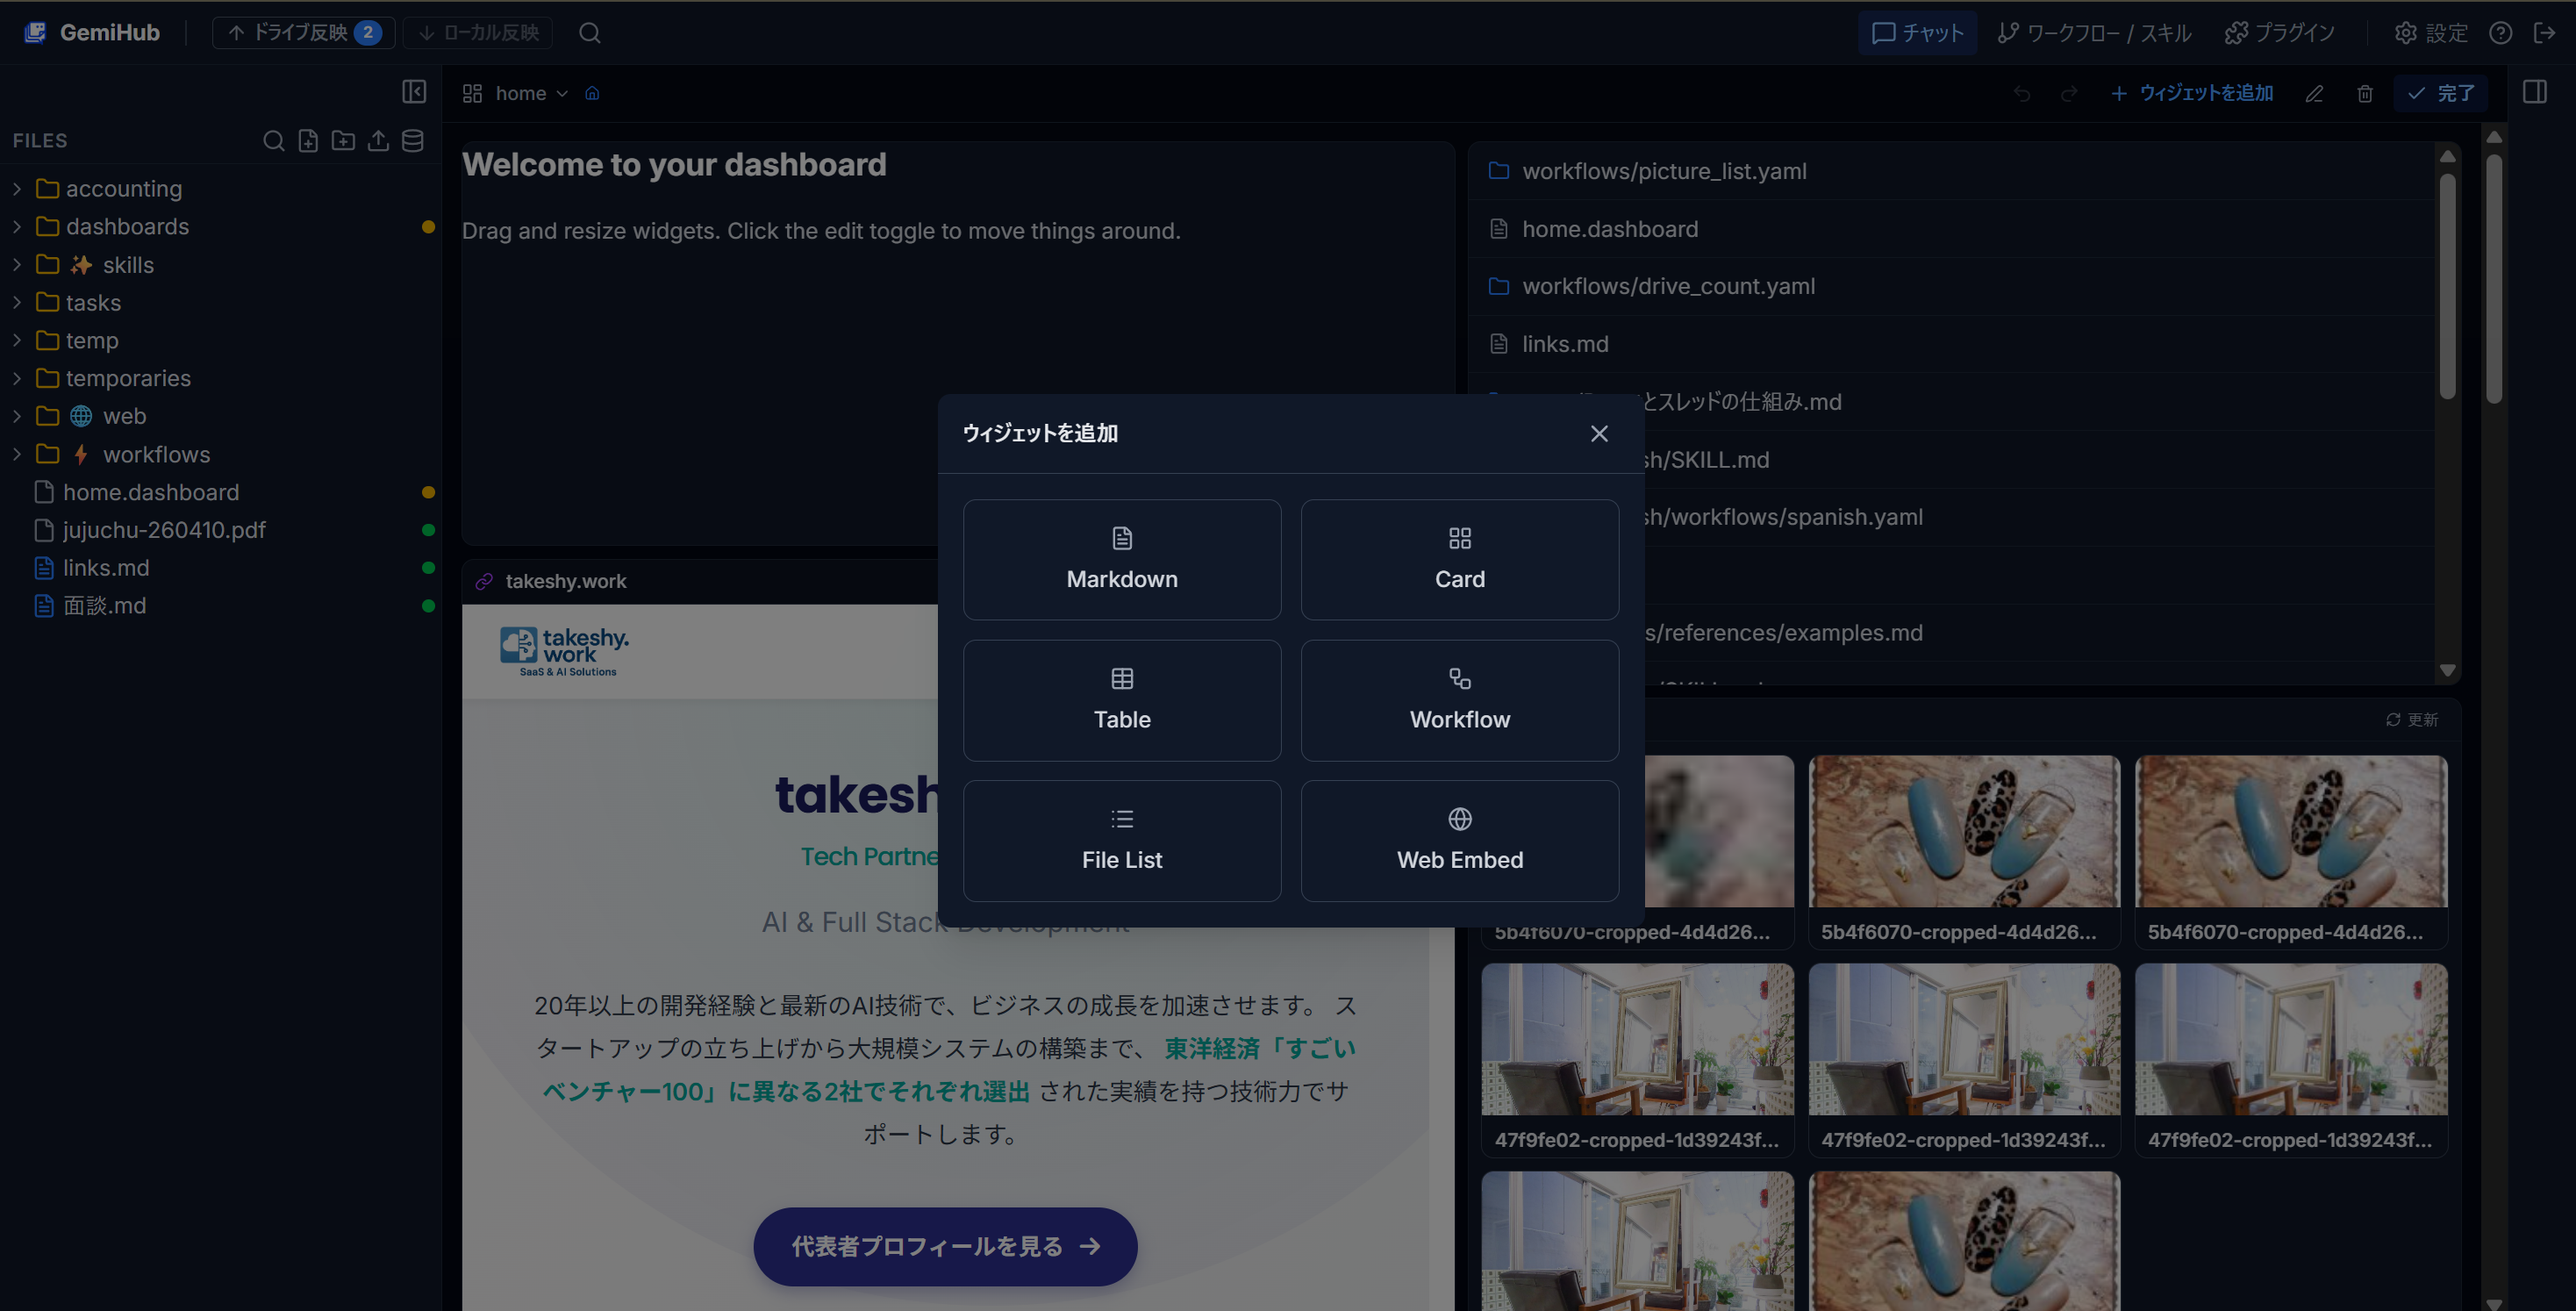
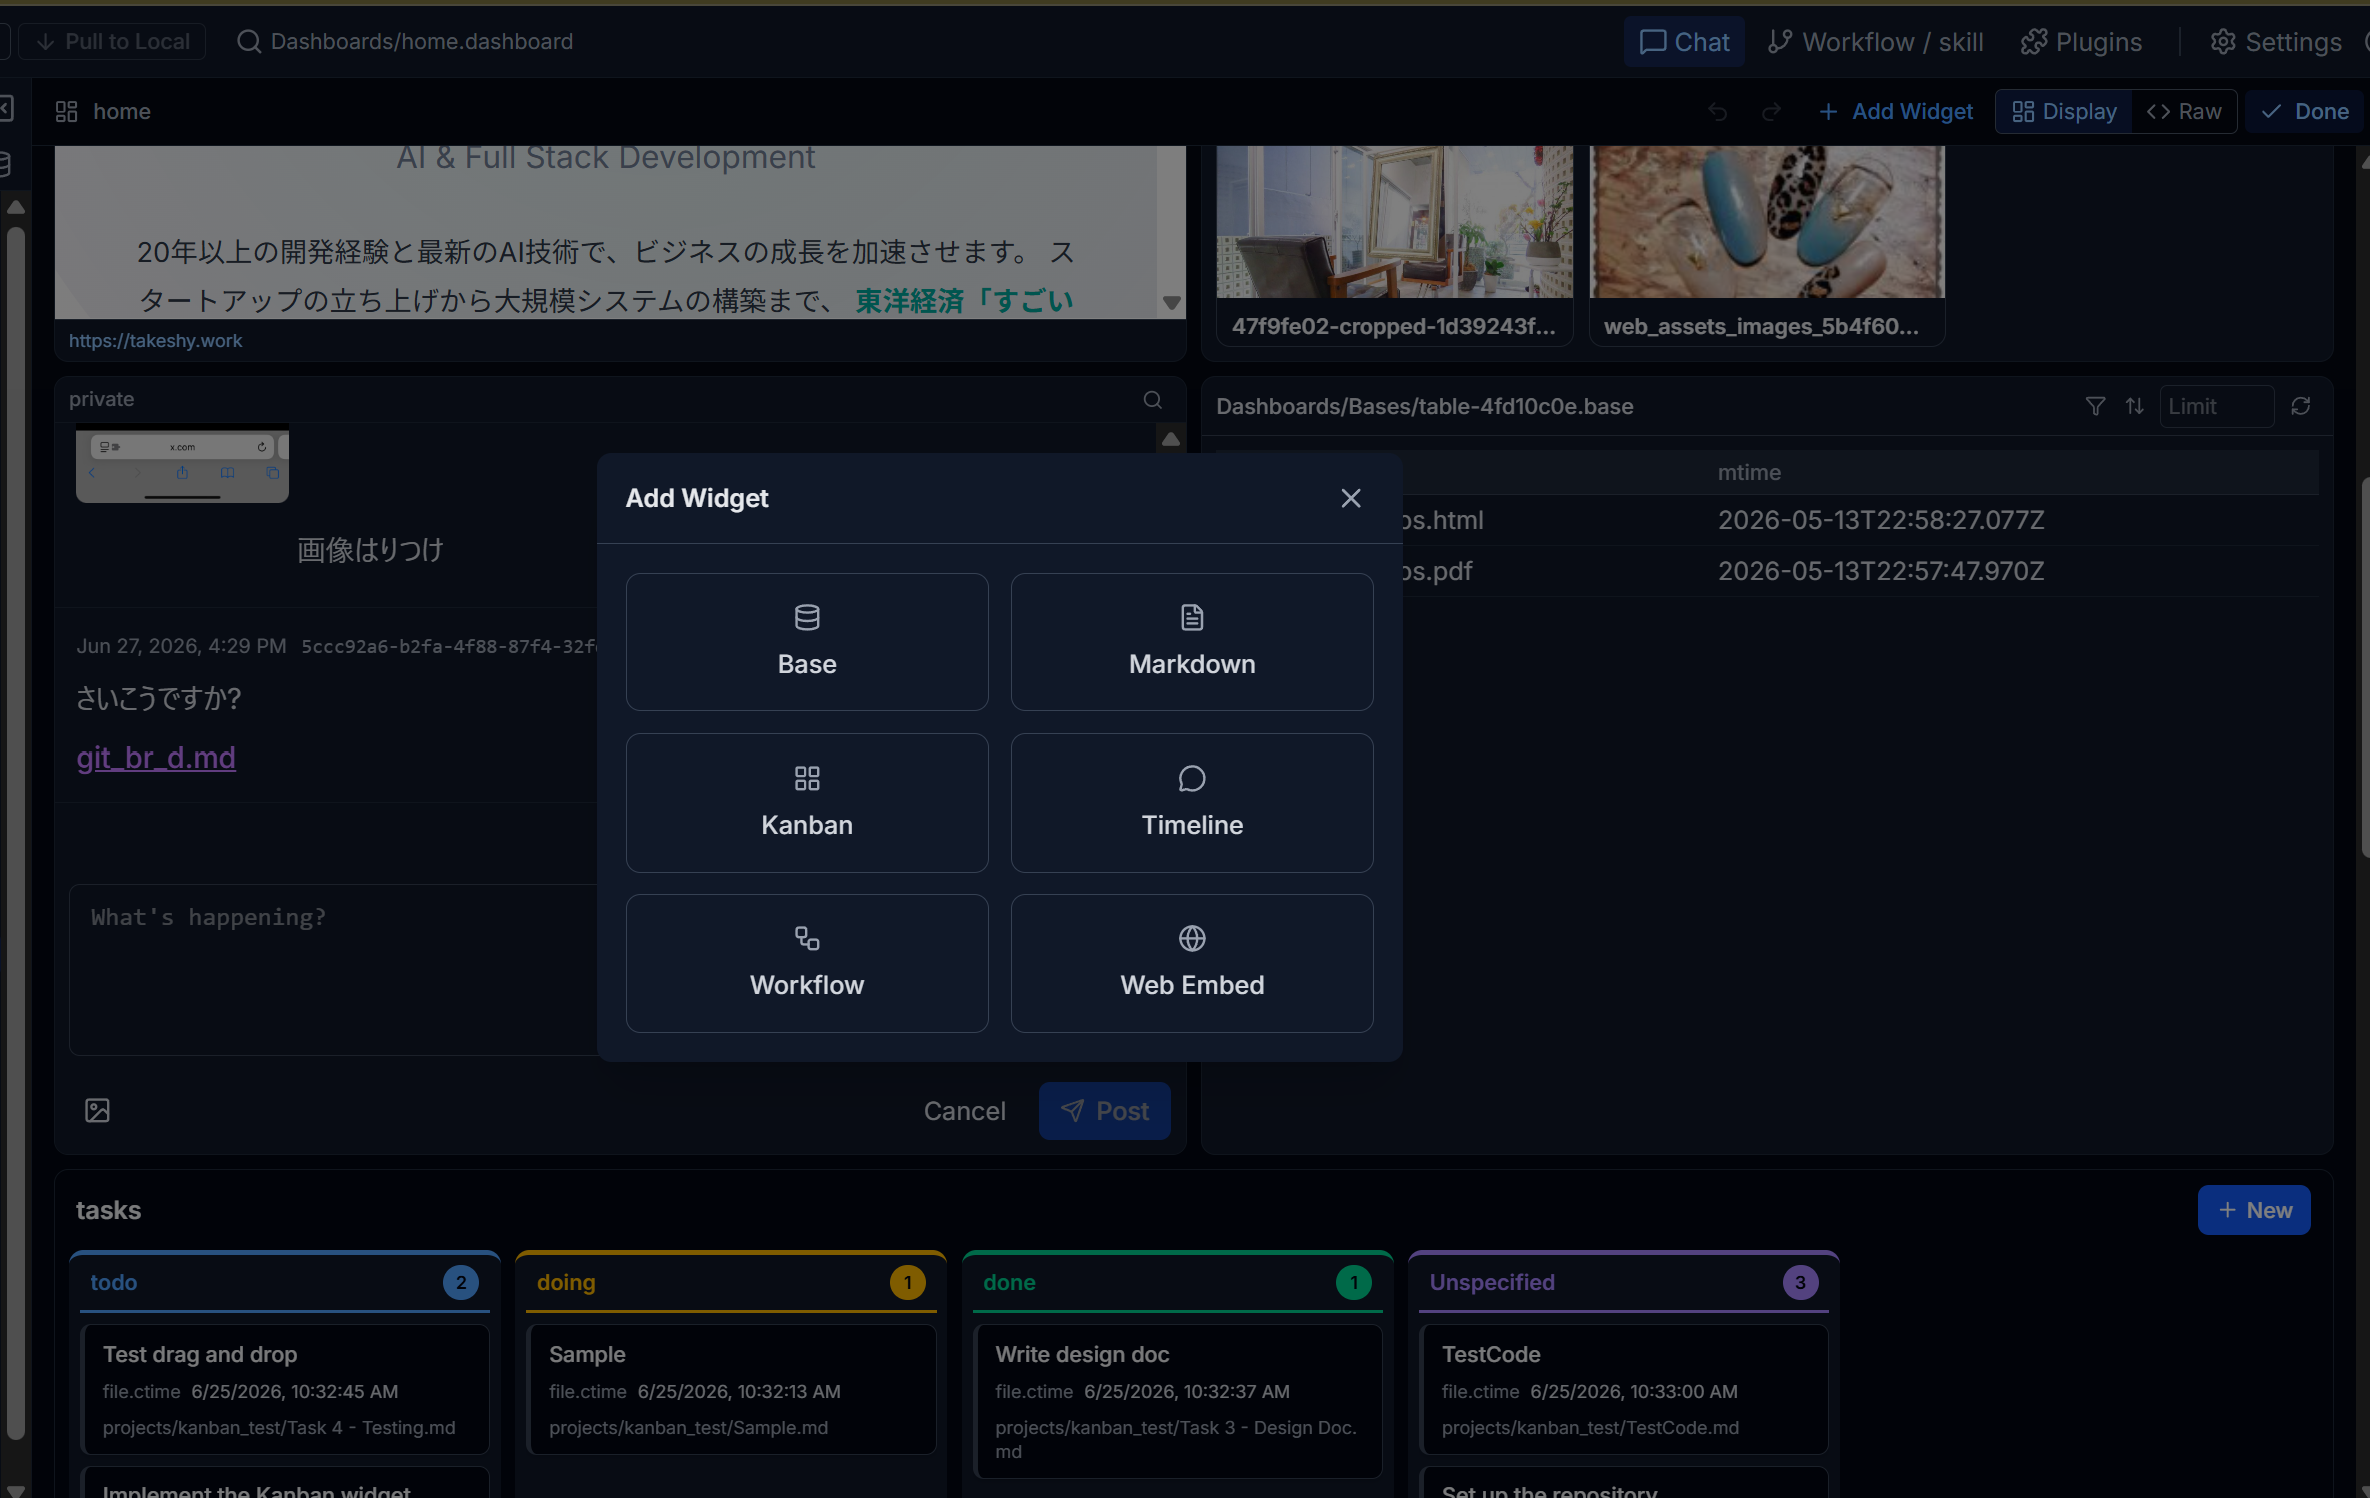
Document Base widget migration and Timeline widget
- README/README_ja: reframe dashboard around Base (.base views,
  replacing card/table/file-list) and the new Timeline microblog widget;
  add timeline_edit and base_setting screenshots
- docs/dashboard(_ja): update widget-type table/schema, add Base and
  Timeline sections, mark Card/Table folder widgets as legacy
  (auto-converted to Base), note base is now a core widget, refresh
  key-files list

diff --git a/docs/dashboard.md b/docs/dashboard.md
@@ -21,7 +21,7 @@ grid:
   gap: 8
 widgets:
   - id: <uuid>
-    type: markdown | file-list | web | card | table | workflow
+    type: markdown | base | kanban | timeline | workflow | web
     layout:
       lg: { x: 0, y: 0, w: 6, h: 3 }
       sm: { x: 0, y: 0, w: 12, h: 3 }   # auto-derived if omitted
@@ -47,30 +47,61 @@ Widgets are registered in `widgets/registry.ts` via `registerWidget(def)`. Each 
 | Type | Purpose | Source |
 |------|---------|--------|
 | `markdown` | Edit an existing Drive markdown file inline (preview/wysiwyg/code) | Drive file |
-| `file-list` | A compact list of files in a folder (header path + filter/sort) | folder |
-| `web` | Embed an external URL (with embeddability check + fallback card) | URL |
-| `card` | Card grid over a folder of markdown files | folder |
-| `table` | Editable table over a folder of markdown files | folder |
+| `base` | Render a view (table/cards/list) of an Obsidian-style `.base` query file | `.base` + folder |
 | `kanban` | Kanban board over a folder of markdown files | folder |
+| `timeline` | Personal microblog of dated posts (tags, image attachments, pin/edit) | timeline folder |
 | `workflow` | Run a workflow and render its output | workflow |
+| `web` | Embed an external URL (with embeddability check + fallback card) | URL |
 
-`web` is unchanged from the initial dashboard release. `markdown` and `file-list` (below) and the data-oriented widgets — `card`, `table`, `kanban`, `workflow` — are described below.
+The current core widget set is registered in `widgets/registry.ts`: `markdown`, `base`, `kanban`, `timeline`, `workflow`, `web`. `web` is unchanged from the initial dashboard release; the others are described below.
+
+> **Folder data widgets are now Bases.** The earlier `card`, `table`, and `file-list` widgets (folder-source card grid / editable table / file list) have been **folded into the `base` widget** — they are now authored as `.base` files (a cards/table/list view over a folder). These three types are no longer registered; when a `.dashboard` still references one, it is **auto-converted** to an equivalent `base` widget on load (`legacyFolderWidgetConversion.ts`), writing a generated `.base` under `Dashboards/Bases/`. The shared folder-source pipeline (`data-widget/`: `folder-source.ts`, `filter.ts`, `ViewControls.tsx`, `config-parts/`) lives on and is reused by the `base` widget for filtering/sorting and the view-time header controls.
 
 ### Markdown widget
 
 References an **existing** Drive markdown file by path (no inline content) and renders the normal markdown editor inline via `MarkdownFileEditor` — the same **preview / wysiwyg / code** toggle, frontmatter, and wiki links as the main editor, with local-first saving (`useFileWithCache`). The editor toolbar is trimmed to *path + mode toggle* (`hideToolbarActions`); the file path on the left is a `MarkdownFilePicker` (@-mention-style search over `editorCtx.fileList`) that switches the referenced file **even outside edit mode** — the choice is persisted as `ctx.onConfigChange({ path })`. This matches the Obsidian Gemini Helper dashboard schema and keeps `.dashboard` files hand-editable/syncable. The view mode defaults to **preview** on the first view of a session, then a session-scoped variable remembers the user's last explicit toggle across file switches (so opening another file keeps wysiwyg/code). Config: `{ path }`.
 
-### File List widget
+### Base widget
 
-A folder file list with a header showing the folder path plus two header icons that work in view mode: a **filter** (filename substring) and a **sort** (the six mtime/ctime/name options). Both are ephemeral view-time overlays — the filter is applied client-side over the loaded list and the sort overrides the configured `sort` (re-fetched via `listFilesLocal`); neither is written back to the `.dashboard`. Popovers reuse the portal `Popover` from `data-widget/ViewControls.tsx`.
+The `base` widget renders a **view of an Obsidian-style `.base` file** — a saved query (filters, sort, limit, computed properties) over a folder of Markdown notes — as a **table**, **card grid**, or **list**. It replaces the old `card` / `table` / `file-list` folder widgets (which are auto-converted to Bases, see the note above). Implemented by `widgets/BaseWidget.tsx`; the `.base` parsing/query engine lives in `app/bases/` (`compileBase`, `queryView`, `createGemiHubHost`) and the view renderer in `app/components/bases/BaseViewRenderer.tsx`.
 
-Clicking a file does **not** open it immediately — it opens a `FilePreviewModal` (portal overlay) showing the content (markdown rendered via `GfmMarkdownPreview`, other files as plain text). The modal header has a navigate icon (open the file in the editor) and a close icon; only the navigate icon performs the actual `plugin-select-file` navigation.
+![Base widget settings](../public/images/base_setting.png)
 
-> **History.** Earlier builds had a single generalized `data` widget (`source` folder|workflow × `view` table|cards) and a `file-table` widget. These were replaced by the three explicit widgets here. Because the dashboard feature had not shipped, there is **no migration shim** — `data` / `file-table` types are gone and old test `.dashboard` files should be recreated with the new types.
+```yaml
+config:
+  base: Dashboards/Bases/projects.base   # path to the .base file
+  view: Cards                            # view name; empty = first view in the file
+```
+
+- A `.base` file is YAML with one or more named `views` (`type: table | cards | list`), each with optional `filters` (expression or `and`/`or` tree, e.g. `file.inFolder("projects")`, `status == "done"`, `tags.contains("ai")`), `order` (displayed properties / columns), `sort`, `limit`, and (for cards) an `image` property. Properties are `file.*` attributes or frontmatter keys.
+- The widget re-reads the referenced `.base` and the source notes from the local cache, recompiles, and renders the selected view. The same **view-time filter / sort / search** header controls as the folder widgets apply (ephemeral, not written back).
+- Clicking a row/card opens the underlying note. The header lets you switch the active view; the choice persists via `ctx.onConfigChange`.
+- The config editor (`config-editors/BaseConfigEditor.tsx`) picks the `.base` file and view, and includes an **AI dialog** (`AIBaseDialog.tsx`) to generate or modify a `.base` from natural language. `.base` files have their own dedicated editor outside the dashboard (see `docs/editor.md`).
+
+> Because `Dashboards/` is in `drive-local.ts`'s `EXCLUDED_PREFIXES`, the recommended home for dashboard-owned `.base` files is `Dashboards/Bases/` (where legacy conversion writes them), but a `base` widget can reference a `.base` anywhere in the vault.
+
+### Timeline widget
+
+The `timeline` widget is a **personal microblog**: a reverse-chronological feed of short posts with `#tags` and image attachments. Implemented by `widgets/TimelineWidget.tsx`.
+
+![Timeline widget](../public/images/timeline_edit.png)
+
+```yaml
+config:
+  name: Journal            # timeline name → folder Dashboards/Timeline/<name>/
+  latestCount: 20          # how many recent posts to load initially (older load on demand)
+  composerMode: raw        # raw | wysiwyg — the post composer editing mode
+```
+
+- **Storage** — each day is a Markdown file `Dashboards/Timeline/<name>/<YYYY-MM-DD>.md`; posts are `---`-separated blocks marked with a `<!-- timeline-post: … -->`-style header carrying the ISO timestamp, `id`, and optional `pinned: true`. Image attachments are saved as binary files under `…/attachments/<date>/<postId>_NN.<ext>` and embedded in the post body as Obsidian embeds (`![[…]]`). All writes are local-first (`writeFileLocal` / `saveBinaryFileLocal`).
+- **Posting** — the composer accepts text plus image uploads (converted to base64 and saved via `saveBinaryFileLocal`). Posts can be **pinned**, **edited** in place, and deleted.
+- **Tags** — inline `#tags` in a post body are extracted into clickable chips shown below the post (the chips are the canonical display; the raw `#tag` tokens are stripped from the rendered body so they aren't shown twice). Clicking a chip filters the feed by that tag.
+- **Filtering & paging** — header controls filter by free-text word, tags, and date range, and toggle pinned-only; older posts load on demand beyond `latestCount`.
+- Posts render through `GfmMarkdownPreview` (wiki embeds for images via `WikiEmbed`); each post is a memoized `TimelinePostView` so editing one post doesn't re-render the whole feed.
 
 ### Shared building blocks
 
-`card`, `table`, and `workflow` reuse a common pipeline:
+The `base`, `workflow`, and the (now legacy, Base-backed) folder widgets reuse a common pipeline:
 
 - **Row model** — `DataRow` (`data-widget/types.ts`): `{ id, fileName?, fileId?, mtime?, ctime?, cells }`. `cells` holds property values keyed by name (frontmatter keys plus `file.*` attributes).
 - **Folder source** — `loadFolderRows(folder)` / `scanFolderFields(folder)` (`folder-source.ts`) read markdown files in a folder and expose their frontmatter + file attributes as rows/fields.
@@ -86,7 +117,9 @@ Clicking a file does **not** open it immediately — it opens a `FilePreviewModa
 - Each icon shows a small blue dot when active; the sort popover has a "Reset" entry to clear the override.
 - Popovers render through a portal (widget cells are `overflow-hidden`, which would otherwise clip them). The filter popover is wider (`w-80`) and the property selector can shrink (`min-w-0`) so the condition row never overflows the panel.
 
-## Card & Table (folder widgets)
+## Card & Table (legacy folder widgets)
+
+> **Legacy / superseded by `base`.** `card`, `table`, and `file-list` are no longer registered widget types — they are auto-converted to `base` widgets on load (see "Folder data widgets are now Bases" above). The implementation files (`FolderWidget`, `CardsView`, `TableView`, `FileListWidget`, and their config editors) remain in the tree as the basis of the legacy conversion and as the shared rendering pipeline reused by the `base` widget. The config shapes below document those legacy widgets and the converter's input.
 
 Both read markdown files from a folder and run them through filter → sort → limit. They differ only in how rows are rendered. Implemented by a shared `FolderWidget` (the registry picks the view per type).
 
@@ -198,7 +231,7 @@ Plugins add custom widget types with `registerWidget(def)` (`widgets/registry.ts
 
 **Late registration.** Plugins load asynchronously, often after a dashboard has already rendered. `registerWidget` dispatches a `dashboard-widgets-changed` event and `DashboardCanvas` re-renders on it, so a widget whose plugin loads late swaps from `UnknownWidget` to the real renderer without a reload.
 
-**`base` widget (plugin-provided, e.g. Obsidian Bases).** Reading/creating/rendering `.base` files is intended to live in a plugin, not core. The convention is a widget `{ type: "base", config: { base: "Dashboards/xx.base", view: "<view name>" } }`: the plugin registers `type: "base"` and renders the named view of the referenced `.base`. Core needs no special import machinery — the `.dashboard` just stores the widget, `WidgetContext` (size/editMode/widgetId/dashboardFileId/`onConfigChange`) is passed through, and when the plugin is absent the widget shows `UnknownWidget` with its config intact. (Note: `drive-local.ts`'s `EXCLUDED_PREFIXES` includes `Dashboards/`, so a plugin discovering `.base` files should use `readFile`/`searchFiles` rather than `listFiles`.)
+> **Note on `base`.** Earlier this widget was envisioned as plugin-provided. It is now a **core widget** (`type: "base"`, see the Base widget section) backed by the in-repo Obsidian Bases engine in `app/bases/`. The same `WidgetContext` plumbing still applies, and a plugin could still register an alternative renderer for a custom type.
 
 **View-mode config.** `WidgetContext.onConfigChange(config)` lets a widget persist its own config from view mode (wired through `GridCell` → `DashboardCanvas` → the dashboard save). Used by the markdown widget's header file picker.
 
@@ -208,6 +241,8 @@ Plugins add custom widget types with `registerWidget(def)` (`widgets/registry.ts
 - `app/dashboard/DashboardCanvas.tsx`, `GridCell.tsx`, `useGridLayout.ts`, `useBreakpoint.ts` — grid & interaction.
 - `app/dashboard/dashboardFile.ts`, `types.ts` — file I/O & schema.
 - `app/dashboard/widgets/registry.ts`, `WidgetPalette.tsx`, `WidgetRenderer.tsx`, `WidgetSettingsPanel.tsx` — registration & UI.
-- `app/dashboard/widgets/` — `MarkdownWidget`, `FileListWidget`, `WebWidget`, `UnknownWidget` (+ their config editors).
-- `app/dashboard/data-widget/` — `FolderWidget`, `WorkflowWidget`, `CardsView`, `TableView`, `folder-source.ts`, `filter.ts`, `workflow-runner.ts`, the `Card`/`Table`/`Workflow` config editors, and shared `config-parts/`.
-- `app/dashboard/frontmatter-writeback.ts`, `frontmatter-cache.ts` — table cell writeback.
+- `app/dashboard/widgets/` — `MarkdownWidget`, `BaseWidget`, `TimelineWidget`, `WebWidget`, `UnknownWidget`, `FileListWidget` (legacy), `FilePreviewModal`, `base-file-options.ts` (+ their config editors, incl. `AIBaseDialog`).
+- `app/dashboard/legacyFolderWidgetConversion.ts` — converts legacy `card`/`table`/`file-list` widgets to `base` (writes a generated `.base`).
+- `app/bases/`, `app/components/bases/` — `.base` compile/query engine and view renderer used by the `base` widget.
+- `app/dashboard/data-widget/` — `FolderWidget`, `WorkflowWidget`, `KanbanWidget`, `CardsView`, `TableView`, `ViewControls.tsx`, `folder-source.ts`, `filter.ts`, `workflow-runner.ts`, the `Card`/`Table`/`Kanban`/`Workflow` config editors, and shared `config-parts/`.
+- `app/dashboard/frontmatter-writeback.ts`, `frontmatter-cache.ts` — table/base cell writeback.

diff --git a/docs/dashboard_ja.md b/docs/dashboard_ja.md
@@ -21,7 +21,7 @@ grid:
   gap: 8
 widgets:
   - id: <uuid>
-    type: markdown | file-list | web | card | table | workflow
+    type: markdown | base | kanban | timeline | workflow | web
     layout:
       lg: { x: 0, y: 0, w: 6, h: 3 }
       sm: { x: 0, y: 0, w: 12, h: 3 }   # 省略時は自動導出
@@ -46,30 +46,61 @@ widgets:
 | 型 | 役割 | ソース |
 |------|---------|--------|
 | `markdown` | 既存 Drive Markdown ファイルをインライン編集（preview/wysiwyg/code） | Drive ファイル |
-| `file-list` | フォルダ内ファイルの一覧（ヘッダにパス + 絞り込み/並び替え） | フォルダ |
-| `web` | 外部 URL を埋め込み（埋め込み可否チェック + フォールバックカード） | URL |
-| `card` | Markdown ファイルのフォルダに対するカードグリッド | フォルダ |
-| `table` | Markdown ファイルのフォルダに対する編集可能テーブル | フォルダ |
+| `base` | Obsidian 風 `.base` クエリファイルのビュー（テーブル/カード/リスト）を描画 | `.base` + フォルダ |
 | `kanban` | Markdown ファイルのフォルダに対するカンバンボード | フォルダ |
+| `timeline` | 日付ごとの投稿による個人マイクロブログ（タグ・画像添付・ピン留め/編集） | timeline フォルダ |
 | `workflow` | ワークフローを実行し出力を描画 | ワークフロー |
+| `web` | 外部 URL を埋め込み（埋め込み可否チェック + フォールバックカード） | URL |
 
-`web` は初期リリースから変更なし。`markdown` / `file-list`（直下）とデータ指向の `card` / `table` / `kanban` / `workflow` を以下で説明する。
+現在のコアウィジェットは `widgets/registry.ts` に登録されている: `markdown`, `base`, `kanban`, `timeline`, `workflow`, `web`。`web` は初期リリースから変更なし。それ以外を以下で説明する。
+
+> **フォルダ系データウィジェットは Base に統合。** 以前の `card` / `table` / `file-list` ウィジェット（フォルダソースのカードグリッド／編集可能テーブル／ファイル一覧）は **`base` ウィジェットに統合**された — 現在は `.base` ファイル（フォルダに対する cards/table/list ビュー）として作成する。これら 3 型はもう登録されておらず、`.dashboard` がまだ参照している場合はロード時に等価な `base` ウィジェットへ**自動変換**される（`legacyFolderWidgetConversion.ts`）。生成された `.base` は `Dashboards/Bases/` 配下に書き出される。共有のフォルダソースパイプライン（`data-widget/`: `folder-source.ts`, `filter.ts`, `ViewControls.tsx`, `config-parts/`）は残り、`base` ウィジェットのフィルタ/ソートやビュー時ヘッダ操作に再利用される。
 
 ### Markdown ウィジェット
 
 **既存**の Drive Markdown ファイルをパスで参照し（インライン content は廃止）、`MarkdownFileEditor` で通常エディタと同じ **preview / wysiwyg / code** 切替・frontmatter・wiki リンク・local-first 保存（`useFileWithCache`）をインライン描画する。ツールバーは *パス + モード切替* のみに絞る（`hideToolbarActions`）。左のファイルパスは `MarkdownFilePicker`（`editorCtx.fileList` に対する @ 風検索）で、**編集モード外でも**参照ファイルを切替でき、選択は `ctx.onConfigChange({ path })` で永続化される。Obsidian Gemini Helper の dashboard schema と同じなので、`.dashboard` ファイルを手書き・同期しやすい。表示モードはセッション初回のみ **preview** が既定で、その後はセッションスコープの変数がユーザーの最後の明示的な切替を記憶し、別ファイルを開いても保持される（wysiwyg/code のまま）。config: `{ path }`。
 
-### File List ウィジェット
+### Base ウィジェット
 
-フォルダのファイル一覧。ヘッダにフォルダパスと、ビューモードで効く 2 つのアイコン — **絞り込み**（ファイル名の部分一致）と**並び替え**（mtime/ctime/name の 6 種）— を表示する。いずれもエフェメラルなビュー時オーバーレイで、絞り込みは読込済みリストにクライアント側で適用、並び替えは設定の `sort` を上書き（`listFilesLocal` で再取得）する。`.dashboard` には書き戻さない。ポップオーバーは `data-widget/ViewControls.tsx` のポータル `Popover` を再利用。
+`base` ウィジェットは **Obsidian 風 `.base` ファイルのビュー** — フォルダ内 Markdown ノートに対する保存済みクエリ（フィルタ・ソート・limit・算出プロパティ）— を **テーブル** / **カードグリッド** / **リスト** として描画する。旧 `card` / `table` / `file-list` フォルダウィジェットを置き換える（それらは Base へ自動変換される。上記の注記参照）。実装は `widgets/BaseWidget.tsx`。`.base` のパース/クエリエンジンは `app/bases/`（`compileBase`, `queryView`, `createGemiHubHost`）、ビュー描画は `app/components/bases/BaseViewRenderer.tsx` にある。
 
-ファイルをクリックしても**すぐには開かず**、`FilePreviewModal`（ポータルのオーバーレイ）で内容をプレビューする（Markdown は `GfmMarkdownPreview` で描画、その他はプレーンテキスト）。モーダルのヘッダには遷移アイコン（エディタで開く）と閉じるアイコンがあり、遷移アイコンを押したときだけ実際の `plugin-select-file` 遷移を行う。
+![Base ウィジェット設定](../public/images/base_setting.png)
 
-> **経緯。** 以前のビルドには汎用の `data` ウィジェット（`source` folder|workflow × `view` table|cards）と `file-table` ウィジェットがあった。これらは本書の 3 つの明示ウィジェットに置き換えられた。ダッシュボード機能は未リリースだったため**互換シムは無い** — `data` / `file-table` 型は廃止され、旧テスト用 `.dashboard` は新型で作り直すこと。
+```yaml
+config:
+  base: Dashboards/Bases/projects.base   # .base ファイルのパス
+  view: Cards                            # view 名。空 = ファイル内の最初の view
+```
+
+- `.base` ファイルは YAML で、1 つ以上の名前付き `views`（`type: table | cards | list`）を持ち、各 view は任意の `filters`（式または `and`/`or` ツリー。例: `file.inFolder("projects")`, `status == "done"`, `tags.contains("ai")`）、`order`（表示プロパティ/列）、`sort`、`limit`、（カードの場合）`image` プロパティを持つ。プロパティは `file.*` 属性または frontmatter キー。
+- ウィジェットは参照先の `.base` とソースノートをローカルキャッシュから再読込し、再コンパイルして選択中の view を描画する。フォルダウィジェットと同じ**ビュー時の絞り込み/並び替え/検索**ヘッダ操作が効く（エフェメラル、書き戻さない）。
+- 行/カードのクリックで対象ノートを開く。ヘッダでアクティブ view を切替でき、選択は `ctx.onConfigChange` で永続化される。
+- config エディタ（`config-editors/BaseConfigEditor.tsx`）で `.base` ファイルと view を選ぶ。自然言語から `.base` を生成/修正する **AI ダイアログ**（`AIBaseDialog.tsx`）も備える。`.base` ファイルにはダッシュボード外の専用エディタがある（`docs/editor.md` 参照）。
+
+> `Dashboards/` は `drive-local.ts` の `EXCLUDED_PREFIXES` に含まれるため、ダッシュボード所有の `.base` の置き場所は `Dashboards/Bases/`（レガシー変換の書き出し先）が推奨だが、`base` ウィジェットは vault 内のどこにある `.base` でも参照できる。
+
+### Timeline ウィジェット
+
+`timeline` ウィジェットは**個人用マイクロブログ**で、`#タグ`や画像添付つきの短い投稿を逆時系列のフィードで表示する。実装は `widgets/TimelineWidget.tsx`。
+
+![Timeline ウィジェット](../public/images/timeline_edit.png)
+
+```yaml
+config:
+  name: Journal            # タイムライン名 → フォルダ Dashboards/Timeline/<name>/
+  latestCount: 20          # 初回ロードする最近の投稿数（古いものは追加読込）
+  composerMode: raw        # raw | wysiwyg — 投稿エディタの編集モード
+```
+
+- **保存** — 各日が Markdown ファイル `Dashboards/Timeline/<name>/<YYYY-MM-DD>.md` になる。投稿は `---` 区切りのブロックで、`<!-- timeline-post: … -->` 形式のヘッダに ISO タイムスタンプ・`id`・任意の `pinned: true` を持つ。画像添付は `…/attachments/<date>/<postId>_NN.<ext>` にバイナリファイルとして保存し、投稿本文に Obsidian 埋め込み（`![[…]]`）で挿入する。すべての書き込みはローカルファースト（`writeFileLocal` / `saveBinaryFileLocal`）。
+- **投稿** — コンポーザはテキストと画像アップロード（base64 化して `saveBinaryFileLocal` で保存）を受け付ける。投稿は**ピン留め**・その場**編集**・削除ができる。
+- **タグ** — 投稿本文中のインライン `#タグ` を抽出し、投稿下にクリック可能なチップとして表示する（チップが正式な表示で、二重表示を防ぐため本文の生 `#タグ` トークンは描画から除去される）。チップをクリックするとそのタグでフィードを絞り込む。
+- **絞り込み・ページング** — ヘッダ操作でフリーワード・タグ・日付範囲による絞り込みとピン留めのみ表示を切り替え、`latestCount` を超える古い投稿は必要に応じて追加読込する。
+- 投稿は `GfmMarkdownPreview` で描画（画像の wiki 埋め込みは `WikiEmbed`）。各投稿は memo 化された `TimelinePostView` なので、ある投稿の編集中にフィード全体が再描画されない。
 
 ### 共通の構成部品
 
-`card` / `table` / `workflow` は共通パイプラインを再利用する:
+`base` / `workflow` と（現在はレガシーで Base が裏にある）フォルダウィジェットは共通パイプラインを再利用する:
 
 - **行モデル** — `DataRow`（`data-widget/types.ts`）: `{ id, fileName?, fileId?, mtime?, ctime?, cells }`。`cells` は名前をキーとするプロパティ値（frontmatter キー + `file.*` 属性）を保持。
 - **フォルダソース** — `loadFolderRows(folder)` / `scanFolderFields(folder)`（`folder-source.ts`）がフォルダ内の Markdown を読み、frontmatter + ファイル属性を行/フィールドとして公開。
@@ -85,7 +116,9 @@ widgets:
 - アクティブ時は各アイコンに青いドットが付く。並び替えポップオーバーには上書きを解除する「リセット」項目がある。
 - ポップオーバーはポータル描画（ウィジェットセルは `overflow-hidden` で、そのままだとクリップされる）。絞り込みポップオーバーは幅広（`w-80`）で、プロパティセレクタは縮小可能（`min-w-0`）なため条件行がパネルからはみ出さない。
 
-## Card と Table（フォルダウィジェット）
+## Card と Table（レガシーフォルダウィジェット）
+
+> **レガシー / `base` に置き換え済み。** `card` / `table` / `file-list` はもう登録ウィジェット型ではなく、ロード時に `base` ウィジェットへ自動変換される（上記「フォルダ系データウィジェットは Base に統合」参照）。実装ファイル（`FolderWidget`, `CardsView`, `TableView`, `FileListWidget` とその config エディタ）はレガシー変換の基盤として、また `base` ウィジェットが再利用する共有描画パイプラインとしてツリーに残っている。以下の config 形状はこれらレガシーウィジェットと変換器の入力を説明する。
 
 両者ともフォルダから Markdown を読み、フィルタ → ソート → limit を通す。行の描画方法だけが異なる。共有の `FolderWidget` で実装し、registry が型ごとにビューを出し分ける。
 
@@ -197,7 +230,7 @@ config エディタはこの契約を AI ワークフロー生成プロンプト
 
 **遅延登録。** プラグインは非同期ロードされ、ダッシュボード描画後に登録されることが多い。`registerWidget` は `dashboard-widgets-changed` イベントを発火し、`DashboardCanvas` がそれを購読して再描画するため、後からロードされた型は `UnknownWidget` からリロード無しで実描画に差し替わる。
 
-**`base` ウィジェット（プラグイン提供、例: Obsidian Bases）。** `.base` の読込/作成/描画はコアではなくプラグインに置く方針。規約はウィジェット `{ type: "base", config: { base: "Dashboards/xx.base", view: "<view名>" } }`: プラグインが `type: "base"` を登録し、参照 `.base` の指定 view を描画する。コアに専用 import 機構は不要 — `.dashboard` は widget を保存するだけ、`WidgetContext`（size/editMode/widgetId/dashboardFileId/`onConfigChange`）が渡り、プラグイン未導入時は config を保持したまま `UnknownWidget` を表示する。（注: `drive-local.ts` の `EXCLUDED_PREFIXES` は `Dashboards/` を含むため、プラグインが `.base` を発見する際は `listFiles` ではなく `readFile`/`searchFiles` を使うこと。）
+> **`base` について。** 以前はこのウィジェットをプラグイン提供とする構想だったが、現在は**コアウィジェット**（`type: "base"`、Base ウィジェットの節参照）で、リポジトリ内の Obsidian Bases エンジン（`app/bases/`）が裏にある。`WidgetContext` の配線は同じで、プラグインがカスタム型に対して別の描画器を登録することも引き続き可能。
 
 **ビューモードでの config 更新。** `WidgetContext.onConfigChange(config)` により、ウィジェットがビューモードから自身の config を永続化できる（`GridCell` → `DashboardCanvas` → ダッシュボード保存に配線）。Markdown ウィジェットのヘッダファイルピッカーで使用。
 
@@ -207,6 +240,8 @@ config エディタはこの契約を AI ワークフロー生成プロンプト
 - `app/dashboard/DashboardCanvas.tsx`, `GridCell.tsx`, `useGridLayout.ts`, `useBreakpoint.ts` — グリッドと操作。
 - `app/dashboard/dashboardFile.ts`, `types.ts` — ファイル I/O とスキーマ。
 - `app/dashboard/widgets/registry.ts`, `WidgetPalette.tsx`, `WidgetRenderer.tsx`, `WidgetSettingsPanel.tsx` — 登録と UI。
-- `app/dashboard/widgets/` — `MarkdownWidget`, `FileListWidget`, `WebWidget`, `UnknownWidget`（+ それぞれの config エディタ）。
-- `app/dashboard/data-widget/` — `FolderWidget`, `WorkflowWidget`, `CardsView`, `TableView`, `folder-source.ts`, `filter.ts`, `workflow-runner.ts`、`Card`/`Table`/`Workflow` config エディタ、共有 `config-parts/`。
-- `app/dashboard/frontmatter-writeback.ts`, `frontmatter-cache.ts` — テーブルセルの書き戻し。
+- `app/dashboard/widgets/` — `MarkdownWidget`, `BaseWidget`, `TimelineWidget`, `WebWidget`, `UnknownWidget`, `FileListWidget`（レガシー）, `FilePreviewModal`, `base-file-options.ts`（+ それぞれの config エディタ、`AIBaseDialog` を含む）。
+- `app/dashboard/legacyFolderWidgetConversion.ts` — レガシー `card`/`table`/`file-list` を `base` に変換（生成した `.base` を書き出す）。
+- `app/bases/`, `app/components/bases/` — `base` ウィジェットが使う `.base` のコンパイル/クエリエンジンとビュー描画。
+- `app/dashboard/data-widget/` — `FolderWidget`, `WorkflowWidget`, `KanbanWidget`, `CardsView`, `TableView`, `ViewControls.tsx`, `folder-source.ts`, `filter.ts`, `workflow-runner.ts`、`Card`/`Table`/`Kanban`/`Workflow` config エディタ、共有 `config-parts/`。
+- `app/dashboard/frontmatter-writeback.ts`, `frontmatter-cache.ts` — テーブル/base セルの書き戻し。

diff --git a/README.md b/README.md
@@ -12,13 +12,17 @@ GemiHub is a self-hostable web application that turns Google Gemini into a perso
 
 ### Your Personal Dashboard
 
-The home screen is a customizable dashboard. Arrange widgets — Markdown notes, file lists, card grids, editable tables, kanban boards, workflow output, and embedded web pages — on a drag-and-drop grid. Toggle edit mode to add, configure, resize, and rearrange widgets, with undo/redo support. Create multiple dashboards, switch between them, and pin one as your home. Card, table, and kanban widgets read Markdown files from a folder (with filter/sort/limit); tables let you edit frontmatter inline, and kanban cards can be created from the board header or dragged between status columns, written straight back to your Drive files. Workflow widgets run a GemiHub workflow and render its output as cards, a table, Markdown, or HTML — with optional auto-refresh. Each dashboard is saved as a `.dashboard` file in your Drive, with both a rendered view and a raw YAML view.
+The home screen is a customizable dashboard. Arrange widgets — Markdown notes, **Base** views (Obsidian Bases), kanban boards, a **Timeline** microblog, workflow output, and embedded web pages — on a drag-and-drop grid. Toggle edit mode to add, configure, resize, and rearrange widgets, with undo/redo support. Create multiple dashboards, switch between them, and pin one as your home. **Base widgets** render a view of an Obsidian-style `.base` file — a saved query (filter/sort/limit, computed properties) over a folder of Markdown notes, shown as a table, card grid, or list; the older card/table/file-list widgets are now authored this way (legacy widgets are auto-converted to a `.base`). Kanban cards can be created from the board header or dragged between status columns, written straight back to your Drive files. The **Timeline widget** is a personal microblog: post short notes with `#tags` and image attachments, pin or edit posts, and filter by tag/word/date — each day is stored as a Markdown file under `Dashboards/Timeline/`. Workflow widgets run a GemiHub workflow and render its output as cards, a table, Markdown, or HTML — with optional auto-refresh. Each dashboard is saved as a `.dashboard` file in your Drive, with both a rendered view and a raw YAML view.
 
 ![Dashboard](./public/images/dashboard.png)
 
 ![Dashboard Workflow Widget](./public/images/dashboard_workflow.png)
 
 ![Dashboard Kanban Board](./public/images/dashboard_kanban.png)
+
+![Timeline Widget](./public/images/timeline_edit.png)
+
+![Base Widget Settings](./public/images/base_setting.png)
 
 ### AI That Knows Your Data
 
@@ -104,7 +108,7 @@ Manage Drive files with a context menu — publish to web, view history, encrypt
 
 ## Features
 
-- **Customizable Dashboard** — Drag-and-drop widget grid as your home screen: Markdown (inline or referencing a Drive file), file lists, card grids, tables, and kanban boards over a folder of Markdown files (with New card creation, optional unmatched-status column, filter/sort/limit, and frontmatter edits written back to `.md` files), workflow widgets that run a workflow and render its output (cards/table/Markdown/HTML, with optional auto-refresh), and web embeds. Multiple dashboards with edit mode, undo/redo, home pinning, and a rendered/raw YAML toggle
+- **Customizable Dashboard** — Drag-and-drop widget grid as your home screen: Markdown (referencing a Drive file), **Base** widgets that render a view (table/cards/list) of an Obsidian-style `.base` query file over a folder of Markdown notes (the former card/table/file-list widgets are now authored as Bases, with legacy widgets auto-converted), kanban boards (New card creation, optional unmatched-status column, drag-to-restatus written back to `.md` files), a **Timeline** microblog widget (dated posts with `#tags`/image attachments, pin/edit, tag/word/date filtering, stored under `Dashboards/Timeline/`), workflow widgets that run a workflow and render its output (cards/table/Markdown/HTML, with optional auto-refresh), and web embeds. Multiple dashboards with edit mode, undo/redo, home pinning, and a rendered/raw YAML toggle
 - **AI Chat** — Streaming conversations with Gemini, function calling, thinking display, image generation, file attachments. Paid plan uses the Interactions API for simultaneous function tools + RAG + Web Search and conversation chaining
 - **Slash Commands** — User-defined `/commands` with template variables (`{content}`, `{selection}` with file ID & position), `@file` mentions (resolved to Drive file IDs for tool access), per-command model/tool overrides. `/run @workflow.yaml` executes workflows directly from chat with inline streaming logs
 - **Visual Workflow Editor** — Visual node-based builder (30 node types), YAML import/export, real-time SSE execution